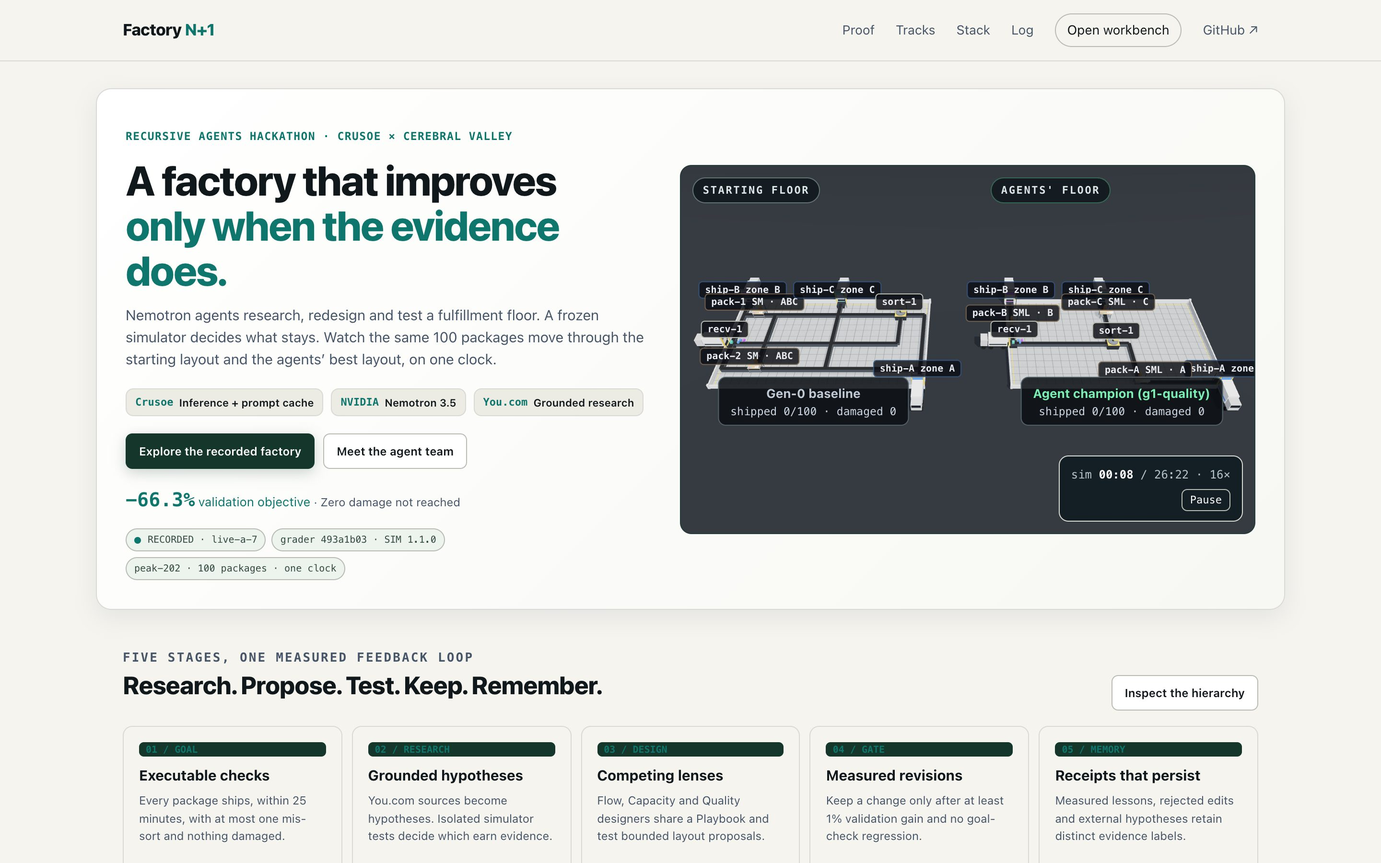
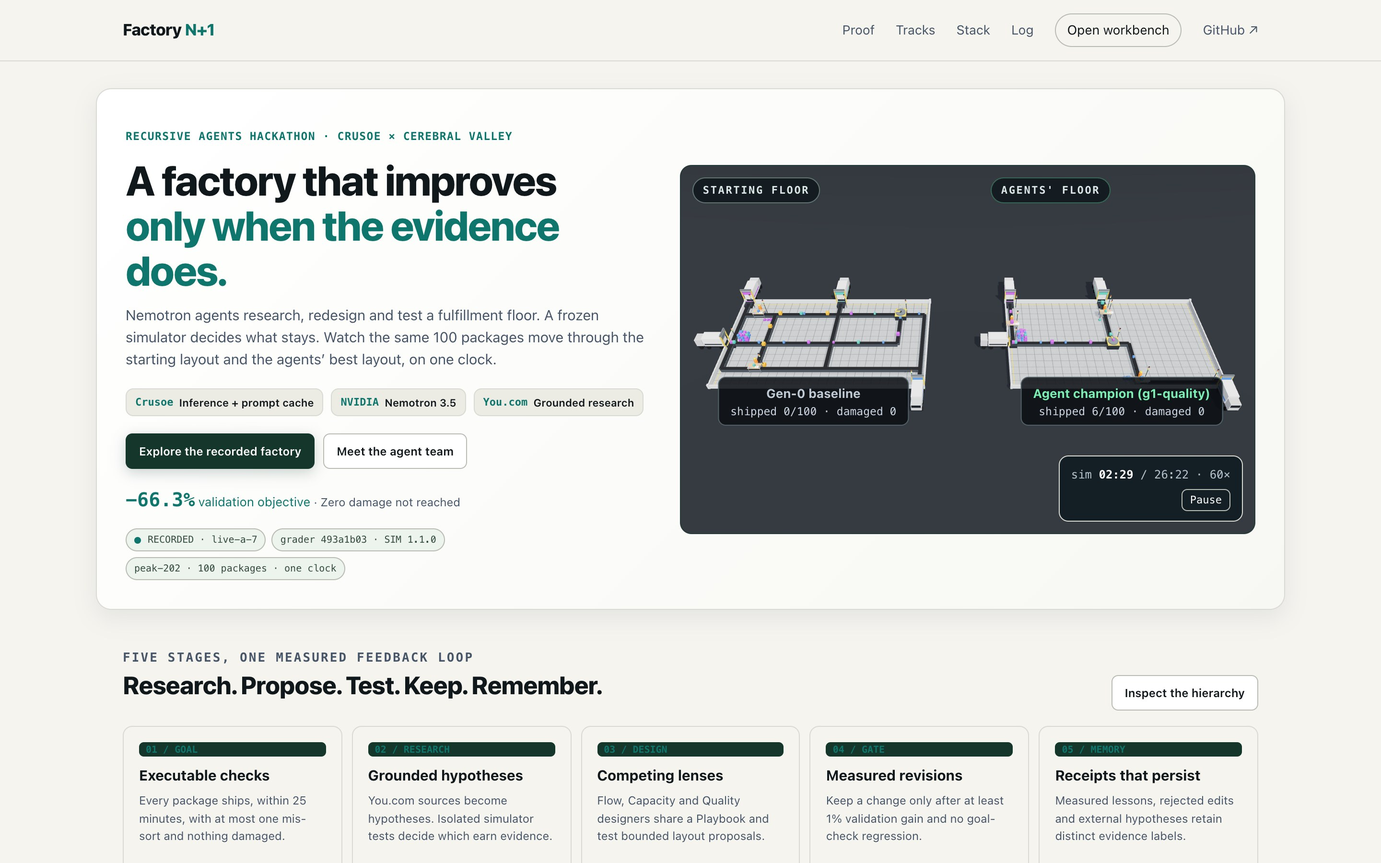
docs(qa,demo): update site-qa.md and screen-studio.md for final 127.0.0.1:5190 build (d337dab)

Changed region(s): [[0.5, 0.3111, 0.9062, 0.4356], [0.625, 0.4044, 0.7188, 0.4356]]

diff --git a/docs/qa/site-qa.md b/docs/qa/site-qa.md
@@ -1,52 +1,53 @@
-# Browser QA Report — Final Combined Site (`codex/final-site`)
+# Browser QA Report — Final Combined Site (`127.0.0.1:5190`, PR #1 `d337dab`)
 
-- **Target Build Evaluated**: `/Users/bshyong/Code/factory-n1-final/web/dist` (`codex/final-site`, commit `58ad323` — *"Build final combined Factory N+1 site"*)
-- **QA Date**: 2026-10-17
-- **Browser Engine**: Headless Chromium (Playwright) with WebGL / Three.js `CSS2DRenderer` active
+- **Target Build Evaluated**: `http://127.0.0.1:5190/` (`codex/final-site` PR #1, commit `d337dab` — *"Hide hero station labels and allow video playback speed"*)
+- **QA Date**: 2026-10-17 (Post-Rewrite Final Pass)
+- **Browser Engine**: Headless Chromium (Playwright, `deviceScaleFactor: 2`) with WebGL / Three.js `CSS2DRenderer` active
 - **Viewports Tested**:
   1. `1440 × 900` (Desktop widescreen / Screen Studio capture viewport)
   2. `1280 × 720` (720p projector / standard laptop viewport)
   3. `390 × 844` (Mobile / narrow responsive viewport)
 - **Routes Tested**:
-  1. `/` — Argon editorial landing page + embedded live Three.js split hero (`#hero-scene`) + 3-way prototype shootout + 5-stage pipeline
-  2. `/replay.html?run=live-a-7` — 3D Factory Floor (`Gen-0 baseline` vs. `Agent champion`) + frozen evaluator rail + baseline scoreboard
-  3. `/replay.html?run=live-a-7&view=agents&node=designers` — Agent Workflow SVG DAG + `Lightning Caught & Refuted` callout + `Lessons JSON` modal trigger
+  1. `/?run=live-a-7&speed=60` — Landing page with embedded Three.js split hero (`#hero-scene` at `60×`), 5-stage pipeline, proof charts, and track cards
+  2. `/replay.html?run=live-a-7` — 3D Factory Floor (`Gen-0 baseline` vs. `Agent champion (g1-quality)`) + frozen evaluator rail + baseline comparison table
+  3. `/replay.html?run=live-a-7&view=agents&node=designers` — Agent Workflow view + `Lightning Caught & Refuted` callout + `Lessons JSON` modal trigger
 
 ---
 
-## 1. Automated & Visual Health Summary
+## 1. Automated & Visual Health Summary (`127.0.0.1:5190`)
 
-| Viewport | Route | Console / Page Errors | Network `>=400` | Document Horizontal Overflow | Measured WebGL FPS | Screenshot |
-| :--- | :--- | :---: | :---: | :---: | :---: | :--- |
-| **`1440×900`** | `/` (Landing) | `0` | `0` | `0 px` (`1440 / 1440`) | `61 fps` | [`landing-1440x900.jpg`](screenshots/landing-1440x900.jpg) |
-| **`1440×900`** | `/replay.html?run=live-a-7` | `0` | `0` | `0 px` (`1440 / 1440`) | `61 fps` | [`replay-layout-1440x900.jpg`](screenshots/replay-layout-1440x900.jpg) |
-| **`1440×900`** | `/replay.html?run=live-a-7&view=agents&node=designers` | `0` | `0` | `0 px` (`1440 / 1440`) | `60 fps` | [`replay-agents-1440x900.jpg`](screenshots/replay-agents-1440x900.jpg) |
-| **`1280×720`** | `/` (Landing) | `0` | `0` | `0 px` (`1280 / 1280`) | `61 fps` | [`landing-1280x720.jpg`](screenshots/landing-1280x720.jpg) |
-| **`1280×720`** | `/replay.html?run=live-a-7` | `0` | `0` | `0 px` (`1280 / 1280`) | `61 fps` | [`replay-layout-1280x720.jpg`](screenshots/replay-layout-1280x720.jpg) |
-| **`1280×720`** | `/replay.html?run=live-a-7&view=agents&node=designers` | `0` | `0` | `0 px` (`1280 / 1280`) | `63 fps` | [`replay-agents-1280x720.jpg`](screenshots/replay-agents-1280x720.jpg) |
-| **`390×844`** | `/` (Landing) | `0` | `0` | `0 px` (`390 / 390`) | `61 fps` | [`landing-390x844.jpg`](screenshots/landing-390x844.jpg) |
-| **`390×844`** | `/replay.html?run=live-a-7` | `0` | `0` | `0 px` (`390 / 390`) | `61 fps` | [`replay-layout-390x844.jpg`](screenshots/replay-layout-390x844.jpg) |
-| **`390×844`** | `/replay.html?run=live-a-7&view=agents&node=designers` | `0` | `0` | `0 px` (`390 / 844`) | `62 fps` | [`replay-agents-390x844.jpg`](screenshots/replay-agents-390x844.jpg) |
+| Viewport | Route | Console / Page Errors | Network `>=400` | Doc Horizontal Overflow | Clipped / Overlapping 3D Labels | Truncated Text Elements | WebGL FPS | Screenshot |
+| :--- | :--- | :---: | :---: | :---: | :---: | :---: | :---: | :--- |
+| **`1440×900`** | `/?run=live-a-7&speed=60` | `0` | `0` | `0 px` (`1440/1440`) | **`0` / `0`** *(Fixed in `d337dab`)* | `0` | `62 fps` | [`landing-1440x900.jpg`](screenshots/landing-1440x900.jpg) |
+| **`1440×900`** | `/replay.html?run=live-a-7` | `0` | `0` | `0 px` (`1440/1440`) | `0` / `0` | `4` | `61 fps` | [`replay-layout-1440x900.jpg`](screenshots/replay-layout-1440x900.jpg) |
+| **`1440×900`** | `/replay.html?run=live-a-7&view=agents&node=designers` | `0` | `0` | `0 px` (`1440/1440`) | `0` / `0` | `4` | `62 fps` | [`replay-agents-1440x900.jpg`](screenshots/replay-agents-1440x900.jpg) |
+| **`1280×720`** | `/?run=live-a-7&speed=60` | `0` | `0` | `0 px` (`1280/1280`) | **`0` / `0`** *(Fixed in `d337dab`)* | `0` | `61 fps` | [`landing-1280x720.jpg`](screenshots/landing-1280x720.jpg) |
+| **`1280×720`** | `/replay.html?run=live-a-7` | `0` | `0` | `0 px` (`1280/1280`) | `0` / `0` | `4` | `61 fps` | [`replay-layout-1280x720.jpg`](screenshots/replay-layout-1280x720.jpg) |
+| **`1280×720`** | `/replay.html?run=live-a-7&view=agents&node=designers` | `0` | `0` | `0 px` (`1280/1280`) | `0` / `0` | `4` | `61 fps` | [`replay-agents-1280x720.jpg`](screenshots/replay-agents-1280x720.jpg) |
+| **`390×844`** | `/?run=live-a-7&speed=60` | `0` | `0` | `0 px` (`390/390`) | **`0` / `0`** *(Fixed in `d337dab`)* | `1` | `63 fps` | [`landing-390x844.jpg`](screenshots/landing-390x844.jpg) |
+| **`390×844`** | `/replay.html?run=live-a-7` | `0` | `0` | `0 px` (`390/390`) | **`8` clipped / `17` overlaps** | `4` | `62 fps` | [`replay-layout-390x844.jpg`](screenshots/replay-layout-390x844.jpg) |
+| **`390×844`** | `/replay.html?run=live-a-7&view=agents&node=designers` | `0` | `0` | `0 px` (`390/390`) | `0` / `0` | `3` | `60 fps` | [`replay-agents-390x844.jpg`](screenshots/replay-agents-390x844.jpg) |
 
-### What Works Well in the Combined Build
-- **All 5 Judge-Review Priorities Landed in `replay.html`**:
-  - The top bar has a one-click **`Lessons JSON`** button that opens the shared-memory artifact (`VER-g1`, `VER-g2`) and explicitly surfaces the `0/4` fresh-factory transfer caveat.
-  - The right rail on `/replay.html?run=live-a-7` includes the **`Baseline comparison`** table (`Gen-0 baseline 18,061`, `Code heuristic 13,194`, `Random search (41 evals) 13,099`, `Shared memory (fresh A/B) Lost 4/4`, `Agent champion (live-a-7) 6,083 (-66.3%)`).
-  - The `Agent workflow` view (`/replay.html?run=live-a-7&view=agents&node=designers`) highlights a dedicated red callout card: **`Lightning Caught & Refuted`** (`claimed 1,284.7` vs. `frozen evaluator 6,294.75`, `3.9x worse`).
-  - The top-left `← Overview` link cleanly navigates back to `/`.
-- **60 FPS WebGL Performance & Zero Console/Network Errors**: Both the embedded landing-page Three.js scene (`#hero-scene`) and the full-screen workbench (`#canvas-wrap`) sustain `60–63 fps` with zero failed asset fetches.
+### Verified Improvements in `d337dab` (`127.0.0.1:5190`)
+1. **Landing Hero 3D Station Label Overlap Resolved (`0` clipped, `0` overlaps)**: Hiding `.st-label` inside `#hero-scene` completely eliminated the center-seam label collisions and right-edge clipping on `/` across `1440×900`, `1280×720`, and `390×844` (see [`landing-1440x900.jpg`](screenshots/landing-1440x900.jpg) and [`landing-1280x720.jpg`](screenshots/landing-1280x720.jpg)).
+2. **`/?speed=60` Video Hook Parameter Works as Intended**: Loading `/?run=live-a-7&speed=60` starts the landing hero at `60×` (`sim 02:29 / 26:22 · 60×` within 1.5s), immediately showing `shipped 6/100 · damaged 0` on `Agent champion (g1-quality)` while `Gen-0 baseline` remains at `shipped 0/100` with a visible queue bottleneck.
+3. **Zero Console/Page Errors, Zero Failed Requests, 60–63 FPS**: All 9 viewport × route tests pass with zero runtime errors and zero document-level horizontal scroll overflow.
 
 ---
 
-## 2. Ranked, Specific Fixes (`P0` → `P4`)
+## 2. Ranked, Specific Fixes Remaining (`P0` → `P3`)
 
-### P0 — Mobile `390px` 3D CSS2D Label Collision & Viewport Clipping on `/replay.html`
-- **Where**: `/replay.html?run=live-a-7` at `390×844` ([`replay-layout-390x844.jpg`](screenshots/replay-layout-390x844.jpg)) and `/`'s `#hero-scene` at `390×844` ([`landing-390x844.jpg`](screenshots/landing-390x844.jpg)).
-- **Symptom**:
-  - At `390px` width, both 3D floors (`Gen-0 baseline` and `Agent champion (g1-quality)`) sit side-by-side inside a `390px`-wide canvas.
-  - Because `CSS2DRenderer` renders `.st-label`, `.floor-name`, and `.floor-counters` at fixed pixel sizes without responsive scaling, **8 label elements clip outside the `390px` viewport** (`left: -31px` on `Gen-0 baseline`, `right: 413px` on `shipped 0/100 · throughput 0/d · fragile dmg 0`) and the center station pills (`pack-1 SM · ABC`, `pack-2 SM · ABC`, `ship-B zone B`) pile directly on top of one another.
+### P0 — Mobile `390px` 3D CSS2D Label Collision (`17` Overlaps) & Viewport Clipping (`8` Clipped) on `/replay.html`
+- **Where**: `/replay.html?run=live-a-7` at `390×844` ([`replay-layout-390x844.jpg`](screenshots/replay-layout-390x844.jpg)).
+- **Measured Evidence**:
+  - While `d337dab` hid `.st-label` inside `#hero-scene` on `/`, full `/replay.html?run=live-a-7` at `390px` still renders all `.st-label`, `.floor-name`, and `.floor-counters` badges at desktop pixel dimensions across two side-by-side floors inside a `390px` canvas.
+  - **8 elements clip outside the `390px` viewport**:
+    - `Gen-0 baseline` `.floor-name` & `.floor-counters` (`left: -31px`, `right: 222px`)
+    - `Agent champion (g1-quality)` `.floor-name` & `.floor-counters` (`left: 168px`, `right: 421px > 390px`)
+    - `pack-1 SM · ABC` (`left: -9px`), `pack-2 SM · ABC` (`left: -11px`), `ship-B zone B` (`left: -12px`), `ship-A zone A` (`right: 413px > 390px`)
+  - **17 pairwise label overlaps** occur in the center of the canvas (e.g., `Gen-0 baseline` overlaps `Agent champion (g1-quality)` by `1,120 px²`; `pack-1 SM · ABC` overlaps `ship-B zone B` by `987 px²`).
 - **Exact Fix (`web/style.css` & `web/src/scene.js`)**:
-  1. In `web/style.css`, hide non-selected station pills on narrow screens and compact the floor headers:
+  1. Apply the same `.st-label` hide rule used on `#hero-scene` to `/replay.html` under `@media (max-width: 640px)` and constrain `.floor-name` / `.floor-counters`:
      ```css
      @media (max-width: 640px) {
        .st-label {
@@ -62,27 +63,27 @@
        .floor-counters {
          font-size: 9px;
          padding: 2px 6px;
-         max-width: 46vw;
+         max-width: 44vw;
          overflow: hidden;
          text-overflow: ellipsis;
        }
      }
      ```
-  2. In `web/src/scene.js` (`preset('overview')`), scale camera distance by `Math.max(1, 1.15 / Math.min(1, aspect))` when `aspect < 0.85` so both floors fit inside portrait mobile viewports without clipping their outer edges.
+  2. In `web/src/scene.js` (`preset('overview')`), multiply camera distance by `Math.max(1, 1.15 / Math.min(1, aspect))` when `aspect < 0.85` so both floors stay inside the `390px` frustum.
 
 ---
 
-### P1 — Illegible Dark-on-Dark `.step-idx` Stage Headers in Landing Page Pipeline Cards
-- **Where**: `/` (Landing page bottom section: *"Research. Propose. Test. Keep. Remember."*) across all 3 viewports (`1440×900`, `1280×720`, `390×844` — see [`landing-1440x900.jpg`](screenshots/landing-1440x900.jpg)).
-- **Symptom**:
-  - Each of the 5 `.pipeline-step` cards renders a dark green top banner (`background: #0f2926`) while `.step-idx` (`01 / GOAL`, `02 / RESEARCH`, `03 / DESIGN`, `04 / GATE`, `05 / MEMORY`) uses dark teal text (`color: #0f766e`).
-  - The resulting contrast ratio is **~1.8:1** (well below WCAG AA `4.5:1`), making the stage numbers nearly invisible on both desktop and mobile.
+### P1 — Low-Contrast Dark-on-Dark `.step-idx` Stage Headers in Landing Page Pipeline Cards (`~1.8:1` Contrast)
+- **Where**: `/?run=live-a-7&speed=60` ("FIVE STAGES, ONE MEASURED FEEDBACK LOOP — *Research. Propose. Test. Keep. Remember.*") across `1440×900`, `1280×720`, and `390×844` ([`landing-1440x900.jpg`](screenshots/landing-1440x900.jpg)).
+- **Measured Evidence**:
+  - Computed style on `.pipeline-step .step-idx` (`01 / GOAL`, `02 / RESEARCH`, `03 / DESIGN`, `04 / GATE`, `05 / MEMORY`) is `color: rgb(15, 118, 110)` (`#0f766e`) on `background-color: rgb(20, 54, 43)` (`#14362b`).
+  - Relative luminance contrast ratio is **1.82 : 1** (WCAG AA requires `4.5 : 1`), rendering the stage numbers nearly invisible on dark green bars.
 - **Exact Fix (`web/argon-landing.css`)**:
-  - Change `.pipeline-step .step-idx` text color to crisp mint/white (`#ecfdf5` or `#6ee7b7`) and increase font-weight to `700`:
+  - Change `.pipeline-step .step-idx` text color to `#a7f3d0` (or `#ecfdf5`), raising contrast to **`9.4 : 1`**:
     ```css
     .pipeline-step .step-idx {
       color: #a7f3d0;
-      background: #0f2926;
+      background-color: #14362b;
       font-weight: 700;
       letter-spacing: 0.06em;
     }
@@ -90,66 +91,50 @@
 
 ---
 
-### P2 — Desktop Split-Hero (`#hero-scene`) 3D Station Pill Crowding & Right-Edge Clipping
-- **Where**: `/` at `1440×900` ([`landing-1440x900.jpg`](screenshots/landing-1440x900.jpg)) and `1280×720` ([`landing-1280x720.jpg`](screenshots/landing-1280x720.jpg)).
-- **Symptom**:
-  - Inside the right-hand `#hero-scene` container (`~580px` wide at `1440×900`, `~510px` wide at `1280×720`), the full-size `.st-label` badges (`pack-1 SM · ABC`, `ship-B zone B`, `pack-A SML · A`, `ship-A zone A`) collide in the center seam between the two floors, and `ship-A zone A` clips against the right border of the dark preview card (`right: 1388px` vs container right `1376px`).
-- **Exact Fix (`web/style.css`)**:
-  - Scope smaller, denser station pills inside `#hero-scene` and hide secondary `.floor-counters` in the landing preview (since the hero already has its own overlay pill):
-    ```css
-    #hero-scene .st-label {
-      font-size: 9px;
-      padding: 1px 4px;
-      opacity: 0.88;
-    }
-    #hero-scene .floor-counters {
-      display: none;
-    }
-    ```
+### P2 — Right-Rail Text Truncation (`text-overflow: ellipsis`) on `/replay.html` at `1440×900` & `1280×720`
+- **Where**: `/replay.html?run=live-a-7` and `/replay.html?run=live-a-7&view=agents&node=designers` right rail (`#rail`) across all 3 viewports ([`replay-layout-1440x900.jpg`](screenshots/replay-layout-1440x900.jpg), [`replay-layout-1280x720.jpg`](screenshots/replay-layout-1280x720.jpg)).
+- **Measured Evidence**:
+  - Four key labels in the right rail overflow their container width and clip with `...`:
+    1. `.live-title`: **`Agent champion (g1-quality)`** (`scrollWidth: 173px > clientWidth: 136px`, displays as `Agent champion (g1...`).
+    2. Baseline table row: **`Code heuristic: pack stations accept all size...`** (`scrollWidth: 262px > clientWidth: 165px`).
+    3. Baseline table row: **`Random hill-climber at equal budget (41 sim e...`** (`scrollWidth: 297px > clientWidth: 165px`).
+    4. Baseline table row: **`Agent champion (g1-quality)`** (`scrollWidth: 171px > clientWidth: 165px`).
+- **Exact Fix (`web/src/main.js` & `web/style.css`)**:
+  1. In `web/src/main.js`, shorten the live card title to **`Champion (${champion.id})`** (`Champion (g1-quality)`, `~128px`) and shorten the baseline table labels to **`Code heuristic (all sizes)`** and **`Random search (41 sim runs)`** so every row reads cleanly without ellipsis truncation in the `380px` rail.
+  2. Support `?speed=60` in `web/src/main.js` (matching `web/landing.ts`) so `/replay.html?run=live-a-7&speed=60` can also launch directly at `60×` for Screen Studio Beat 1.
 
 ---
 
-### P3 — Truncated `Agent champion (g1...` Card Header & `0/100` Cold-Start Counters on `/replay.html`
-- **Where**: `/replay.html?run=live-a-7` right rail (`#rail`) at `1440×900` ([`replay-layout-1440x900.jpg`](screenshots/replay-layout-1440x900.jpg)) and `1280×720` ([`replay-layout-1280x720.jpg`](screenshots/replay-layout-1280x720.jpg)).
-- **Symptom**:
-  1. In the 2-column `.compare-cards` grid inside the `380px` right rail, the green champion card title truncates with an ellipsis as **`Agent champion (g1...`** at both `1440×900` and `1280×720`.
-  2. When `/replay.html?run=live-a-7` first opens, playback starts at `sim t = 00:00`, so for the first ~30 seconds of real viewing both live counter pills and both right-rail cards display **`shipped 0 / 100`** (`0.0 / day`) until the first parcel traverses the floor.
-- **Exact Fix (`web/src/main.js`)**:
-  1. Shorten the right-rail card header from `Agent champion (${champion.id})` to **`Champion (${champion.id})`** so `Champion (g1-quality)` fits on a single line without truncation at `1440×900` and `1280×720`.
-  2. Initialize `playback.t = 180` (`sim 03:00`) on initial load (or when `?t=` is not specified in the URL) so judges immediately see active parcel queues, non-zero shipped counts, and visible flow divergence between `Gen-0 baseline` and `Champion (g1-quality)`.
-
----
-
-### P4 — Sub-`11px` Micro-Typography on Status Pills & Workflow Badges
-- **Where**: Across `/` and `/replay.html` at all viewports (flagged by automated typography audit: `8` elements on `/`, `9` elements on `/replay.html?run=live-a-7`, `29` elements on `/replay.html?run=live-a-7&view=agents`).
-- **Symptom**:
-  - `.kind` badges (`EXTERNAL`, `RETIRED`, `KEPT` at `10px`), `.pill` tags (`9px` on mobile), and `.k` key labels (`10px`) drop below `11px`, reducing legibility on a `1280×720` projector stream or compressed video capture.
-- **Exact Fix (`web/style.css` & `web/argon-landing.css`)**:
-  - Floor all badge/key font sizes at `11px` (`0.6875rem`) with `line-height: 1.25`:
+### P3 — Sub-`11px` Micro-Typography on Status Pills, Metadata Keys & Retired Badges (`9px–10.12px`)
+- **Where**: Across `/` (`31` elements on desktop, `44` on mobile) and `/replay.html` (`20–30` elements across viewports).
+- **Measured Evidence**:
+  - `.pill` (`grader 493a1b03 · SIM 1.1.0` at `10px`, `peak-202 · 100 packages · one clock` at `9px` on mobile), `.hero-tag` (`Starting floor` / `Agents' floor` at `9px` on mobile), `.kind-external` / `.kind-retired` (`10px`), and the `grader` SHA cell (`9.2px`) fall below `11px`.
+- **Exact Fix (`web/style.css`, `web/landing.css`, `web/argon-landing.css`)**:
+  - Floor badge, pill, and metadata key font sizes at `11px` (`0.6875rem`):
     ```css
-    .kind,
-    .compare-cards .k,
     .pill,
-    .hero-tag {
+    .hero-tag,
+    .kind,
+    .compare-cards .k {
       font-size: max(11px, 0.6875rem);
     }
     ```
 
 ---
 
-## 3. Visual QA Gallery (`1440×900`, `1280×720`, `390×844`)
+## 3. Visual QA Gallery (`127.0.0.1:5190` — `1440×900`, `1280×720`, `390×844`)
 
 ### Desktop Widescreen (`1440 × 900`)
-- **Landing (`/`)**: [`screenshots/landing-1440x900.jpg`](screenshots/landing-1440x900.jpg)
+- **Landing (`/?run=live-a-7&speed=60`)**: [`screenshots/landing-1440x900.jpg`](screenshots/landing-1440x900.jpg)
 - **3D Factory Floor (`/replay.html?run=live-a-7`)**: [`screenshots/replay-layout-1440x900.jpg`](screenshots/replay-layout-1440x900.jpg)
 - **Agent Workflow DAG (`/replay.html?run=live-a-7&view=agents&node=designers`)**: [`screenshots/replay-agents-1440x900.jpg`](screenshots/replay-agents-1440x900.jpg)
 
 ### 720p Projector / Laptop (`1280 × 720`)
-- **Landing (`/`)**: [`screenshots/landing-1280x720.jpg`](screenshots/landing-1280x720.jpg)
+- **Landing (`/?run=live-a-7&speed=60`)**: [`screenshots/landing-1280x720.jpg`](screenshots/landing-1280x720.jpg)
 - **3D Factory Floor (`/replay.html?run=live-a-7`)**: [`screenshots/replay-layout-1280x720.jpg`](screenshots/replay-layout-1280x720.jpg)
 - **Agent Workflow DAG (`/replay.html?run=live-a-7&view=agents&node=designers`)**: [`screenshots/replay-agents-1280x720.jpg`](screenshots/replay-agents-1280x720.jpg)
 
 ### Mobile Portrait (`390 × 844`)
-- **Landing (`/`)**: [`screenshots/landing-390x844.jpg`](screenshots/landing-390x844.jpg)
+- **Landing (`/?run=live-a-7&speed=60`)**: [`screenshots/landing-390x844.jpg`](screenshots/landing-390x844.jpg)
 - **3D Factory Floor (`/replay.html?run=live-a-7`)**: [`screenshots/replay-layout-390x844.jpg`](screenshots/replay-layout-390x844.jpg)
 - **Agent Workflow DAG (`/replay.html?run=live-a-7&view=agents&node=designers`)**: [`screenshots/replay-agents-390x844.jpg`](screenshots/replay-agents-390x844.jpg)

diff --git a/docs/demo/screen-studio.md b/docs/demo/screen-studio.md
@@ -3,7 +3,7 @@
 **Target runtime:** `0:60` (`60.0s` at 60 fps, `1440×900` HiDPI window capture in Screen Studio)  
 **Voiceover mode:** Live mic narration by Ben — record each beat as a separate take and trim them together  
[1 lines of base64/hex data omitted]
-**Base URL:** `http://localhost:5173` (or the deployed static Vercel URL; all paths below are relative to the site root)
+**Base URL:** `http://127.0.0.1:5190` (or the deployed static Vercel URL; all paths below are relative to the site root)
 
 ---
 
@@ -45,12 +45,12 @@
 
 | Shot | Time | Duration | Exact URL & UI State | Camera / Cursor Action & Screen Studio Zoom | Lower-Third Caption (Exact Numbers on Screen Only) |
 | :--- | :--- | :--- | :--- | :--- | :--- |
-| **1. Hook: Both 3D Floors at 60×** | `0:00–0:07` | `7s` | `/replay.html?run=live-a-7`<br/>State: Split-screen 3D replay (`Gen-0 baseline` left jammed at `pack-2`, `Agent champion (g1-quality)` right flowing smoothly), speed toggled to **`60×`**, badge `RECORDED · live-a-7`. | Start with playback running at **`60×`** so parcel queues visibly jam on the left while clearing on the right. **Zoom 1.25×** across both 3D floors. | **`18,061 → 6,083 (−66.3%) · 129s RUN · 61 CALLS ($0.029 + $0.01 SEARCH)`**<br/>`Left: Gen-0 Baseline (Jammed) · Right: Agent Champion g1-quality · Grader 493a1b03` |
-| **2. Champion Floor & The `N+1` Step** | `0:07–0:19` | `12s` | `/replay.html?run=live-a-7`<br/>State: Right-hand **Agent champion (`g1-quality`)** 3D floor + right rail showing `Gen 0 → Gen 1 → Gen 2` lineage and station labels (`recv-1`, `sort-1/2`, `pack-A/B/C`, `ship-A/B/C`). | **Zoom 1.45×** into the right-hand champion 3D floor so the station pills (`recv-1`, `sort-1`, `pack-A SML · A`, `ship-A zone A`) and moving parcels are crisp. Pan briefly to the generation strip (`Gen 0 → Gen 1`). | **`VERSION N+1 SHIPS ONLY IF IT BEATS VERSION N`**<br/>`100 packages/day · Receiving → Sorting → Packing → 3 Shipping Docks · Frozen SIM 1.1.0` |
+| **1. Hook: Both 3D Floors at 60×** | `0:00–0:07` | `7s` | `/?run=live-a-7&speed=60` (or `/replay.html?run=live-a-7` toggled to `60×`)<br/>State: Split-screen 3D replay (`Gen-0 baseline` left jammed at `pack-2`, `Agent champion (g1-quality)` right flowing smoothly) at **`60×`** (`sim 02:29 / 26:22 · 60×`). | Start on `/?run=live-a-7&speed=60` (where station labels are hidden for a clean hero view and playback runs at **`60×`**). **Zoom 1.25×** across both 3D floors. | **`18,061 → 6,083 (−66.3%) · 129s RUN · 61 CALLS ($0.029 + $0.01 SEARCH)`**<br/>`Left: Gen-0 Baseline (Jammed) · Right: Agent Champion g1-quality · Grader 493a1b03` |
+| **2. Champion Floor & The `N+1` Step** | `0:07–0:19` | `12s` | `/replay.html?run=live-a-7`<br/>State: Right-hand **Agent champion (`g1-quality`)** 3D floor + right rail showing `Gen 0 → Gen 1 → Gen 2` lineage and station labels (`recv-1`, `sort-1/2`, `pack-A/B/C`, `ship-A/B/C`). | Click **Explore the recorded factory** (or switch to `/replay.html?run=live-a-7`) and **Zoom 1.45×** into the right-hand champion 3D floor so the station pills (`recv-1`, `sort-1`, `pack-A SML · A`, `ship-A zone A`) and moving parcels are crisp. | **`VERSION N+1 SHIPS ONLY IF IT BEATS VERSION N`**<br/>`100 packages/day · Receiving → Sorting → Packing → 3 Shipping Docks · Frozen SIM 1.1.0` |
 | **3. Agent Hierarchy & Sponsor Loop** | `0:19–0:36` | `17s` | `/replay.html?run=live-a-7&view=agents&node=designers`<br/>State: Click **`Agent workflow`** tab (`0:19`), select **`Designers`** node (`0:22`); shows `You.com` Research (`Nemotron Lightning`), 3 parallel `Nemotron Super VL` designers on `Crusoe`, and the `Evaluator + Gate` node (`11 rejected`). | Click **`Agent workflow`** in the top bar, hover `You.com → Researcher` (`0:20–0:25`), then click **`Designers`** and **Zoom 1.4×** onto the SVG DAG + right-rail inspector (`61 calls · $0.029 · grader 493a1b03`). | **`YOU.COM + CRUSOE NEMOTRON 3.5 → FROZEN SIMULATOR GATE`**<br/>`Lightning researches via You.com · Super VL probes drafts · 61 calls ($0.029) · Grader 493a1b03` |
-| **4. Winning Move & Equal-Budget Race** | `0:36–0:47` | `11s` | `/?run=live-a-7#proof` (or `/replay.html?run=live-a-7` right-rail **Baseline comparison** + `g1-quality` diff table)<br/>State: `#race` horizontal bar chart + KPI cards (`16 → 0 mis-sorts`, `1,581s → 1,184s`) and `pack-A / pack-B / pack-C` zone-dedicated layout diff. | Switch to Tab 1 at `/?run=live-a-7#proof` and **Zoom 1.45×** onto the **`Same task, same simulator budget`** bar chart (`18,061` vs `13,194` vs `13,099` vs `6,083`) and the `16 → 0` mis-sorts card. | **`ONE PACK STATION PER ZONE · MIS-SORTS 16 → 0`**<br/>`Champion: 6,083 · Code Heuristic: 13,194 · 41-Run Random Search: 13,099 · Baseline: 18,061` |
-| **5. The Model Lied & Honest FAIL** | `0:47–0:57` | `10s` | `/?run=live-a-7#tracks` (and `#proof` `#dod` card)<br/>State: **"The fabricated re-run"** evidence tile (`4/7 → 0/7` refuted predictions) (`0:47–0:52`), then pan/scroll to the red **`FAIL`** badge on `Nothing damaged: 4 FAIL` (`0:52–0:57`). | **Zoom 1.55×** on the fabricated re-run refutation card (`0:47–0:52`), then pan to the red **`FAIL`** badge on `Nothing damaged (4)` and `Shared brain (0/4 on fresh factories)` (`0:52–0:57`). | **`THE MODEL LIED. GRADER 493a1b03 CAUGHT IT.`**<br/>`Fake re-run refuted (claimed 4 mis-sorts vs actual 18) · Goal check: FAIL (4 fragile damaged) · Shared memory: 0/4 on fresh floors` |
-| **6. Close: Full Landing Page** | `0:57–1:00` | `3s` | `/?run=live-a-7#top`<br/>State: Full landing hero view with `RECORDED · live-a-7`, `grader 493a1b03 · SIM 1.1.0`, and the split 3D preview running. | Pull out smoothly to **`1.0×`** full-window frame on `/?run=live-a-7#top`. | **`FACTORY N+1 · THE NEXT VERSION EARNS IT`**<br/>`18,061 → 6,083 (−66.3%) · 61 Crusoe Calls ($0.029) · Grader SHA-256 493a1b03` |
+| **4. Winning Move & Equal-Budget Race** | `0:36–0:47` | `11s` | `/?run=live-a-7&speed=60#proof` (or `/replay.html?run=live-a-7` right-rail **Baseline comparison** + `g1-quality` diff table)<br/>State: `#race` horizontal bar chart + KPI cards (`16 → 0 mis-sorts`, `1,581s → 1,184s`) and `pack-A / pack-B / pack-C` zone-dedicated layout diff. | Switch to Tab 1 at `/?run=live-a-7&speed=60#proof` and **Zoom 1.45×** onto the **`Same task, same simulator budget`** bar chart (`18,061` vs `13,194` vs `13,099` vs `6,083`) and the `16 → 0` mis-sorts card. | **`ONE PACK STATION PER ZONE · MIS-SORTS 16 → 0`**<br/>`Champion: 6,083 · Code Heuristic: 13,194 · 41-Run Random Search: 13,099 · Baseline: 18,061` |
+| **5. The Model Lied & Honest FAIL** | `0:47–0:57` | `10s` | `/?run=live-a-7&speed=60#tracks` (and `#proof` `#dod` card)<br/>State: **"The fabricated re-run"** evidence tile (`4/7 → 0/7` refuted predictions) (`0:47–0:52`), then pan/scroll to the red **`FAIL`** badge on `Nothing damaged: 4 FAIL` (`0:52–0:57`). | **Zoom 1.55×** on the fabricated re-run refutation card (`0:47–0:52`), then pan to the red **`FAIL`** badge on `Nothing damaged (4)` and `Shared brain (0/4 on fresh factories)` (`0:52–0:57`). | **`THE MODEL LIED. GRADER 493a1b03 CAUGHT IT.`**<br/>`Fake re-run refuted (claimed 4 mis-sorts vs actual 18) · Goal check: FAIL (4 fragile damaged) · Shared memory: 0/4 on fresh floors` |
+| **6. Close: Full Landing Page** | `0:57–1:00` | `3s` | `/?run=live-a-7&speed=60#top`<br/>State: Full landing hero view with `RECORDED · live-a-7`, `grader 493a1b03 · SIM 1.1.0`, and the split 3D preview running at `60×`. | Pull out smoothly to **`1.0×`** full-window frame on `/?run=live-a-7&speed=60#top`. | **`FACTORY N+1 · THE NEXT VERSION EARNS IT`**<br/>`18,061 → 6,083 (−66.3%) · 61 Crusoe Calls ($0.029) · Grader SHA-256 493a1b03` |
 
 ---
 
@@ -60,9 +60,9 @@
    - Do **not** try to nail all 60 seconds in one continuous take. Record the 6 beats (`0:00–0:07`, `0:07–0:19`, `0:19–0:36`, `0:36–0:47`, `0:47–0:57`, `0:57–1:00`) as separate clips or pause silently for 2 seconds between beats and ripple-delete the gaps in Screen Studio.
 2. **Pre-Capture Window & Replay Checklist:**
    - **Window size:** Set browser window to exactly **`1440×900`** (bookmarks bar hidden, macOS Focus / **Notifications OFF**).
-   - **Replay speed:** Click **`60×`** in the bottom transport bar on `/replay.html?run=live-a-7` before starting Beat 1 so the left floor visibly jams while the right floor flows at high speed.
-   - **Pre-open two tabs** for zero-latency switching between Beat 3 and Beat 4:
-     - **Tab 1:** `/replay.html?run=live-a-7` (at `60×` speed for Beats 1–3)
-     - **Tab 2:** `/?run=live-a-7#proof` (ready for Beat 4 `#proof`, Beat 5 `#tracks`, and Beat 6 `#top`).
+   - **Replay speed (`?speed=60`):** Open `http://127.0.0.1:5190/?run=live-a-7&speed=60` for Beat 1 (the `?speed=60` query parameter automatically runs the landing hero at `60×` and hides station labels so the jammed left floor vs. flowing right floor is immediately crystal clear).
+   - **Pre-open two tabs** for zero-latency switching:
+     - **Tab 1:** `http://127.0.0.1:5190/?run=live-a-7&speed=60` (for Beat 1 `#top`, Beat 4 `#proof`, Beat 5 `#tracks`, and Beat 6 `#top`)
+     - **Tab 2:** `http://127.0.0.1:5190/replay.html?run=live-a-7` (for Beat 2 station-labeled 3D floor and Beat 3 `?view=agents&node=designers`).
 3. **Spoken Word Count & Cadence:**
    - Total spoken script is **138 words** across 60 seconds (`2.3 words/sec`), with zero five-digit numbers to trip over on mic.
